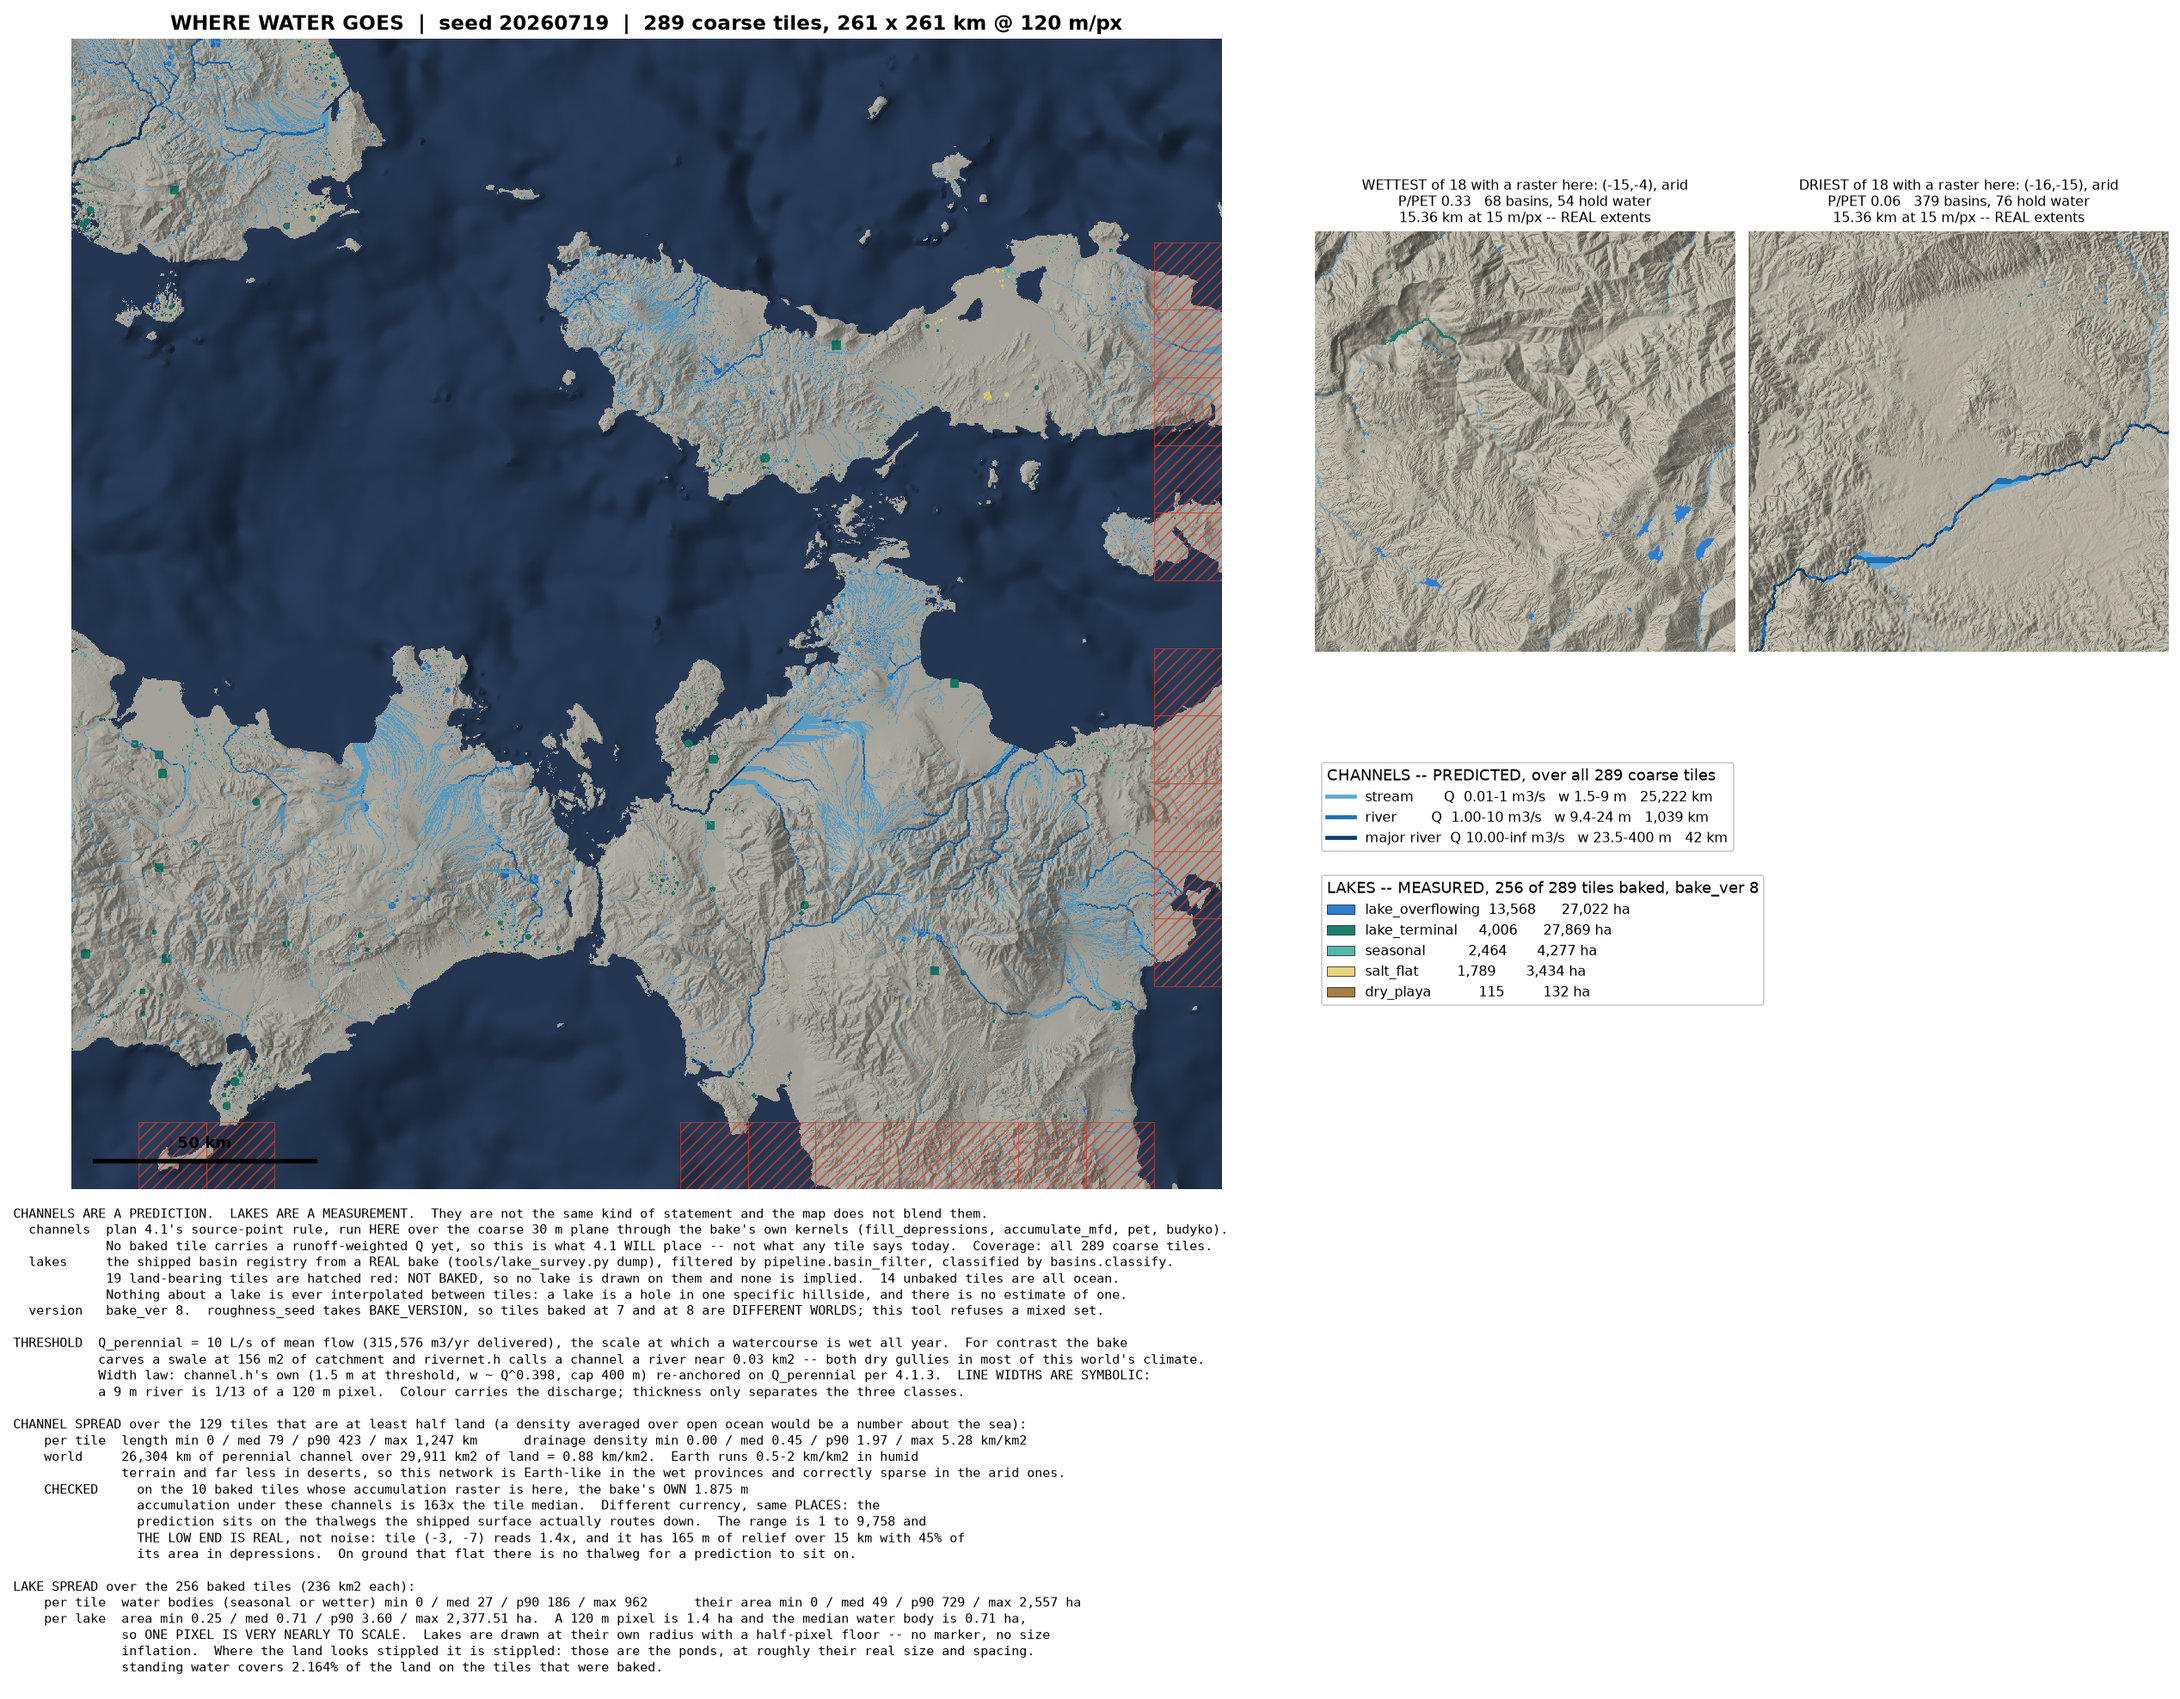
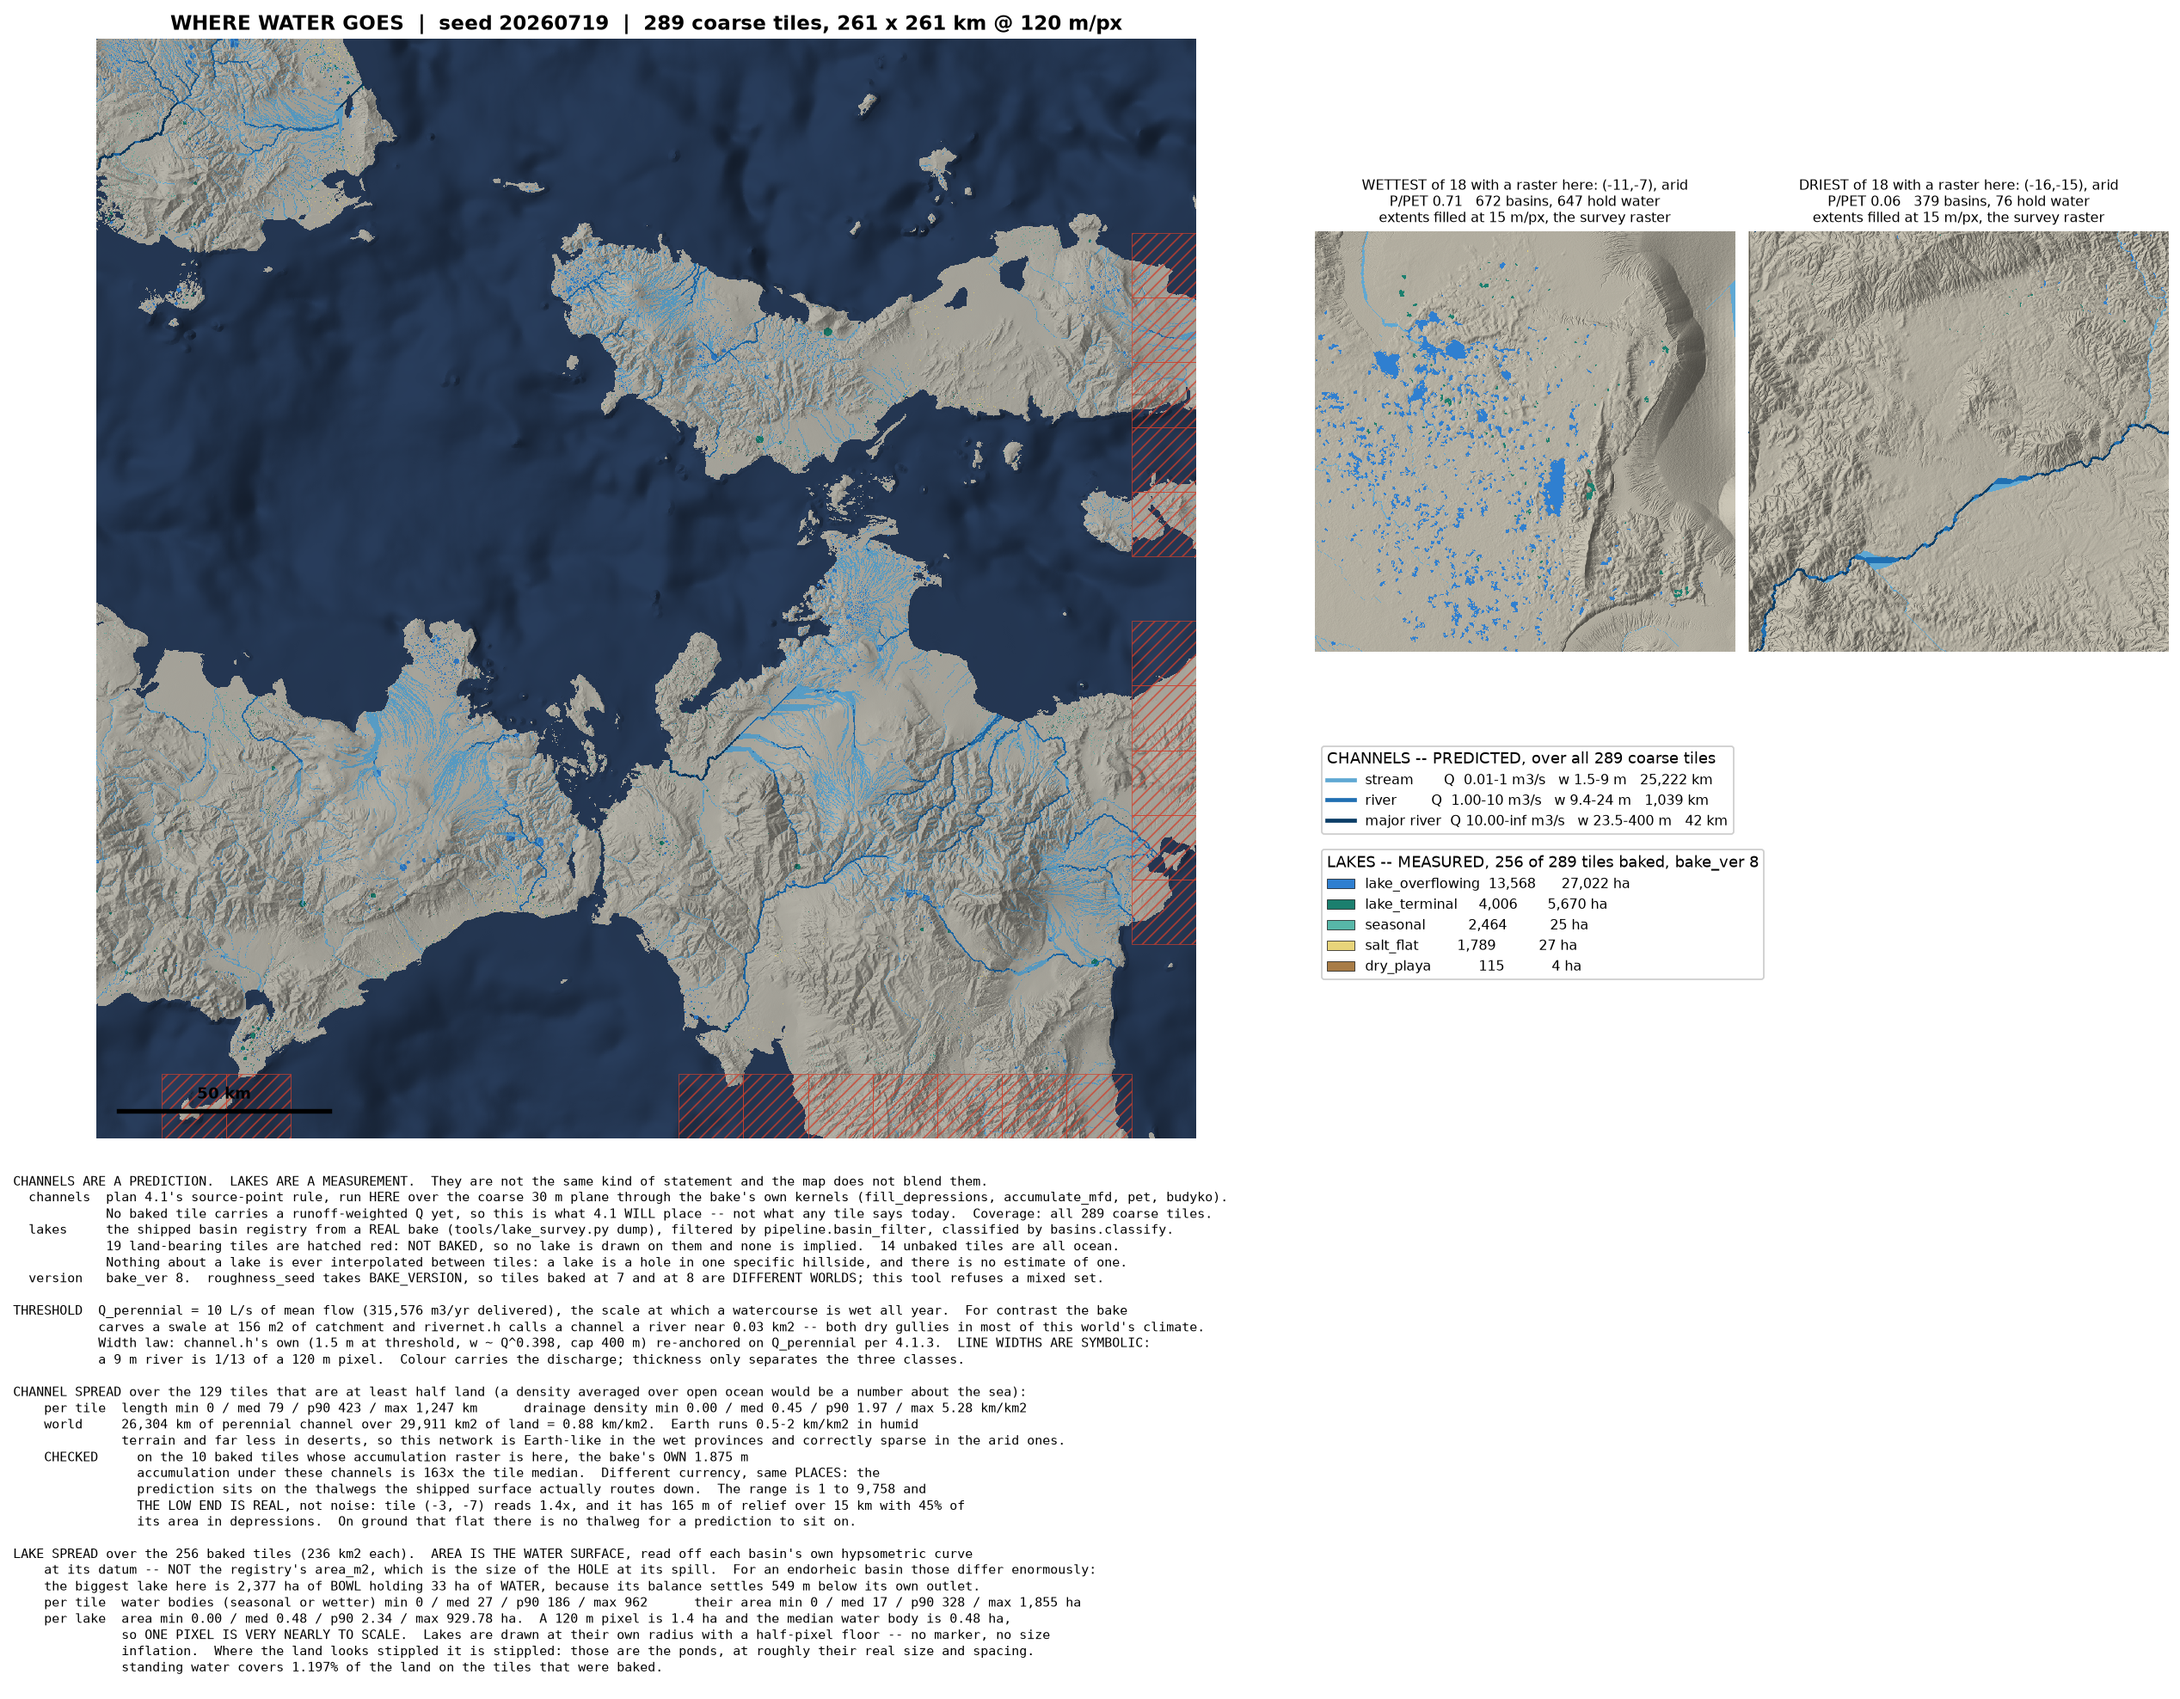
water map: lake AREA is the water surface, not the size of the hole
A correction to the map committed one commit ago, found by trying to stand on
one of its lakes. It is a factual error on an owner-facing deliverable, so it
gets its own commit rather than a quiet amend.

WHAT WAS WRONG. The map read lake area from the registry's `area_m2`. That
field is the depression's area AT ITS SPILL LEVEL -- the size of the hole --
which is what the registry needs it for. The water sits at `surface_m`, and for
an endorheic basin the two are not close. The largest lake in this world is
2,377 ha of BOWL holding 33 ha of WATER, because its balance settles at 341.8 m
against a spill at 890.6 m: 549 m below its own outlet. A 73x overstatement, on
that basin.

It read as plausible, which is what made it dangerous. The number was real and
correctly computed; it was the answer to a different question.

HOW IT WAS CAUGHT, since that is the reusable part. Not by reading the code --
by picking the biggest lake on the map to spawn at, running the client's own
extent fill over the survey raster to find its shoreline, and getting 28 ha
where the legend said 2,378. An 85x gap is not a rounding argument, so
something had to be wrong, and the hypsometric curve on the same wire row said
which: A(341.8 m) = 32.5 ha, matching the fill to within the raster's own
decimation loss. THE MAP WAS CHECKED BY TRYING TO USE IT.

THE FIX is one function, `water_area_m2`, reading the hypsometric curve the
water balance was already solved on. For an overflowing lake surface == spill
[…]

diff --git a/terrain-service/tools/worldmaps/water.py b/terrain-service/tools/worldmaps/water.py
@@ -308,6 +308,34 @@ def check_against_bake(q, land, dumps, tx0, ty0):
 
 # --------------------------------------------------------------------------- lakes
 
+def water_area_m2(b: dict) -> float:
+    """How much water this basin's surface actually covers, m^2.
+
+    NOT ``area_m2``, AND THIS IS A TRAP WORTH THE PARAGRAPH. The registry's
+    ``area_m2`` is the depression's area at its SPILL level -- the size of the
+    hole -- because that is what the registry is for. The water sits at
+    ``surface_m``, and for an endorheic basin those are wildly different
+    things: the largest lake in this world is 2,377 ha of BOWL holding 33 ha of
+    WATER, because its balance settles 549 m below its own outlet.
+
+    Using area_m2 as a lake area therefore overstates by 73x on that one basin
+    and by some amount on every basin that is not overflowing -- which is 8,374
+    of 21,942 of them. It read as plausible, which is what made it dangerous:
+    the number is real, it is just the answer to a different question.
+
+    The right answer is on the wire already: A(h) is the hypsometric curve the
+    balance was solved on, so the water area is that curve read at the surface.
+    For an overflowing lake surface == spill and this returns area_m2 exactly,
+    so there is one rule and not two.
+    """
+    lv = b.get("hyps_levels_m") or []
+    ar = b.get("hyps_areas_m2") or []
+    if len(lv) < 2:
+        return float(b["area_m2"]) if b["surface_m"] >= b["spill_m"] else 0.0
+    return float(np.interp(float(b["surface_m"]), np.asarray(lv, np.float64),
+                           np.asarray(ar, np.float64)))
+
+
 def load_dumps(dump_dir: pathlib.Path, consts):
     """Registered basins per tile, from lake_survey dumps, one bake version.
 
@@ -326,9 +354,12 @@ def load_dumps(dump_dir: pathlib.Path, consts):
     for r in lake_survey._load(dump_dir):
         vers.add(int(r["bake_version"]))
         fps.add(r.get("bake_fingerprint", ""))
+        rows = lake_survey._refilter(r, filt, wb)
+        for b in rows:
+            b["water_area_m2"] = water_area_m2(b)
         recs[(r["tile"][0], r["tile"][1])] = {
             "meta": r,
-            "basins": lake_survey._refilter(r, filt, wb),
+            "basins": rows,
             "npz": pathlib.Path(r["_path"]).with_suffix(".npz"),
         }
     if not recs:
@@ -498,11 +529,11 @@ def main() -> int:
             cy = int(round((ty - ty0) * tpx + b["seed_px"][1] * scale))
             if not (0 <= cx < W and 0 <= cy < H):
                 continue
-            r = max(np.sqrt(b["area_m2"] / np.pi) / px_m, 0.5)
+            r = max(np.sqrt(b["water_area_m2"] / np.pi) / px_m, 0.5)
             ki = KIND_ORDER.index(b["kind_name"])
             if r <= 0.5:
-                if b["area_m2"] > kind_area[cy, cx]:
-                    kind_idx[cy, cx], kind_area[cy, cx] = ki, b["area_m2"]
+                if b["water_area_m2"] > kind_area[cy, cx]:
+                    kind_idx[cy, cx], kind_area[cy, cx] = ki, b["water_area_m2"]
                 continue
             ri = int(min(np.ceil(r), 8))
             sub = (yy[8 - ri:9 + ri, 8 - ri:9 + ri] ** 2 +
@@ -512,9 +543,9 @@ def main() -> int:
             sm = sub[y0 - (cy - ri):sub.shape[0] - ((cy + ri + 1) - y1),
                      x0 - (cx - ri):sub.shape[1] - ((cx + ri + 1) - x1)]
             win = (slice(y0, y1), slice(x0, x1))
-            take = sm & (b["area_m2"] > kind_area[win])
+            take = sm & (b["water_area_m2"] > kind_area[win])
             kind_idx[win] = np.where(take, ki, kind_idx[win])
-            kind_area[win] = np.where(take, b["area_m2"], kind_area[win])
+            kind_area[win] = np.where(take, b["water_area_m2"], kind_area[win])
     for ki, k in enumerate(KIND_ORDER):
         m = kind_idx == ki
         if not m.any():
@@ -535,7 +566,7 @@ def main() -> int:
     FIG_W, FIG_H = 19.5, 15.2
     MAP_W = 0.585
     fig = plt.figure(figsize=(FIG_W, FIG_H), dpi=130)
-    axm = fig.add_axes([0.004, 0.300, MAP_W, 0.677])
+    axm = fig.add_axes([0.004, 0.330, MAP_W, 0.647])
     axm.imshow(np.clip(rgb, 0, 1), origin="upper", interpolation="nearest")
     axm.set_axis_off()
 
@@ -606,11 +637,11 @@ def main() -> int:
             f"{label} of {npool} with a raster here: ({tx},{ty}), {prov.lower()}\n"
             f"P/PET {pm / max(pet, 1):.2f}   {len(d['basins'])} basins, "
             f"{drawn} hold water\n"
-            f"15.36 km at {epx_m:.0f} m/px -- REAL extents", fontsize=8.6)
+            f"extents filled at {epx_m:.0f} m/px, the survey raster", fontsize=8.6)
         return drawn
 
     def wetness(kv):
-        return sum(b["area_m2"] for b in kv[1]["basins"] if b["kind"] >= bs.KIND_SEASONAL)
+        return sum(b["water_area_m2"] for b in kv[1]["basins"] if b["kind"] >= bs.KIND_SEASONAL)
 
     def dryness(kv):
         return sum(1 for b in kv[1]["basins"] if b["kind"] <= bs.KIND_SEASONAL)
@@ -644,15 +675,15 @@ def main() -> int:
         aa = 0.0
         for b in d["basins"]:
             n_by_kind[b["kind_name"]] += 1
-            a_by_kind[b["kind_name"]] += b["area_m2"]
+            a_by_kind[b["kind_name"]] += b["water_area_m2"]
             if b["kind"] >= bs.KIND_SEASONAL:
                 c += 1
-                aa += b["area_m2"]
+                aa += b["water_area_m2"]
         per_tile_lakes.append(c)
         per_tile_lake_ha.append(aa / 1e4)
     per_tile_lakes = np.array(per_tile_lakes)
     per_tile_lake_ha = np.array(per_tile_lake_ha)
-    lake_areas = np.array([b["area_m2"] for d in dumps.values()
+    lake_areas = np.array([b["water_area_m2"] for d in dumps.values()
                            for b in d["basins"] if b["kind"] >= bs.KIND_SEASONAL])
     surveyed_land_m2 = 0.0
     for (tx, ty) in dumps:
@@ -674,7 +705,7 @@ def main() -> int:
               label=f"{k:<17s} {n_by_kind[k]:>5,d}   {a_by_kind[k] / 1e4:>9,.0f} ha")
         for k in KIND_ORDER]
 
-    axl = fig.add_axes([0.603, 0.300, 0.393, 0.255])
+    axl = fig.add_axes([0.603, 0.330, 0.393, 0.235])
     axl.set_axis_off()
     l1 = axl.legend(handles=ch_handles, loc="upper left", fontsize=8.8,
                     title="CHANNELS -- PREDICTED, over all %d coarse tiles"
@@ -729,7 +760,9 @@ def main() -> int:
         f"              terrain and far less in deserts, so this network is Earth-like in the wet provinces and correctly sparse in the arid ones.\n"
         f"    CHECKED     {agree_line}\n"
         f"\n"
-        f"LAKE SPREAD over the {len(dumps)} baked tiles ({tile_km2:.0f} km2 each):\n"
+        f"LAKE SPREAD over the {len(dumps)} baked tiles ({tile_km2:.0f} km2 each).  AREA IS THE WATER SURFACE, read off each basin's own hypsometric curve\n"
+        f"    at its datum -- NOT the registry's area_m2, which is the size of the HOLE at its spill.  For an endorheic basin those differ enormously:\n"
+        f"    the biggest lake here is 2,377 ha of BOWL holding 33 ha of WATER, because its balance settles 549 m below its own outlet.\n"
         f"    per tile  water bodies (seasonal or wetter) {spread(per_tile_lakes, '{:.0f}')}      their area {spread(per_tile_lake_ha, '{:,.0f}')} ha\n"
         f"    per lake  area {spread(lake_areas / 1e4, '{:,.2f}')} ha.  A {px_m:.0f} m pixel is {px_m * px_m / 1e4:.1f} ha and the median water body is {np.median(lake_areas) / 1e4:.2f} ha,\n"
         f"              so ONE PIXEL IS VERY NEARLY TO SCALE.  Lakes are drawn at their own radius with a half-pixel floor -- no marker, no size\n"
